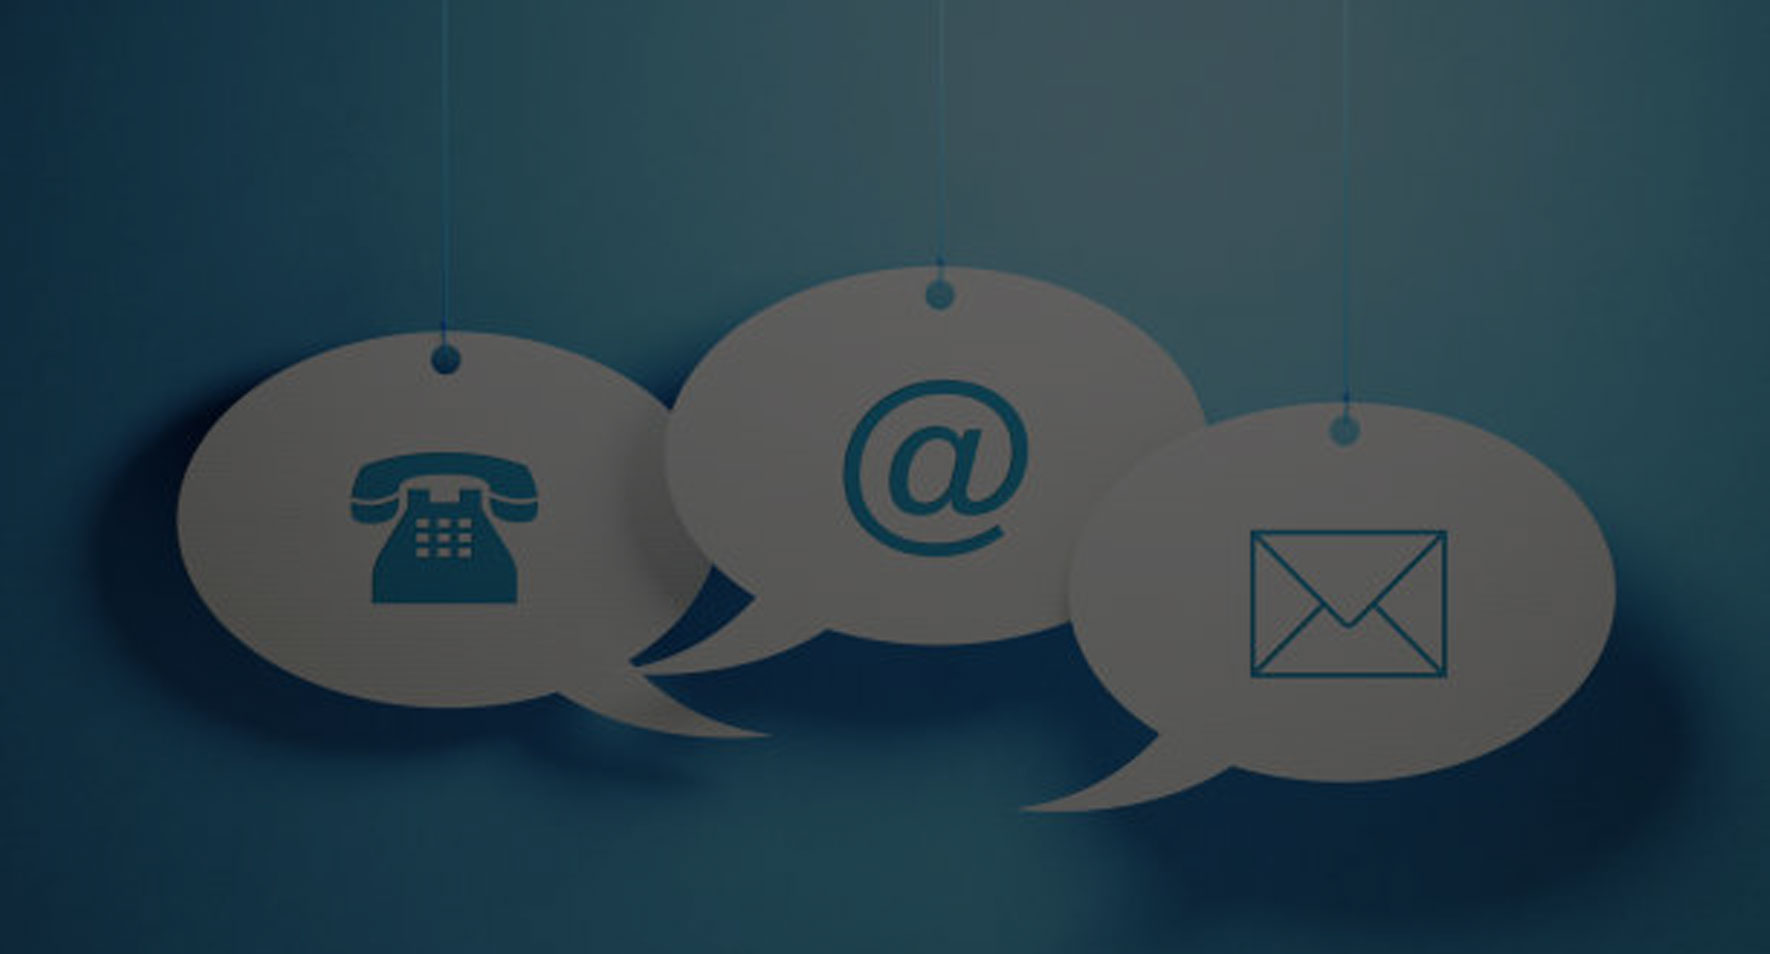
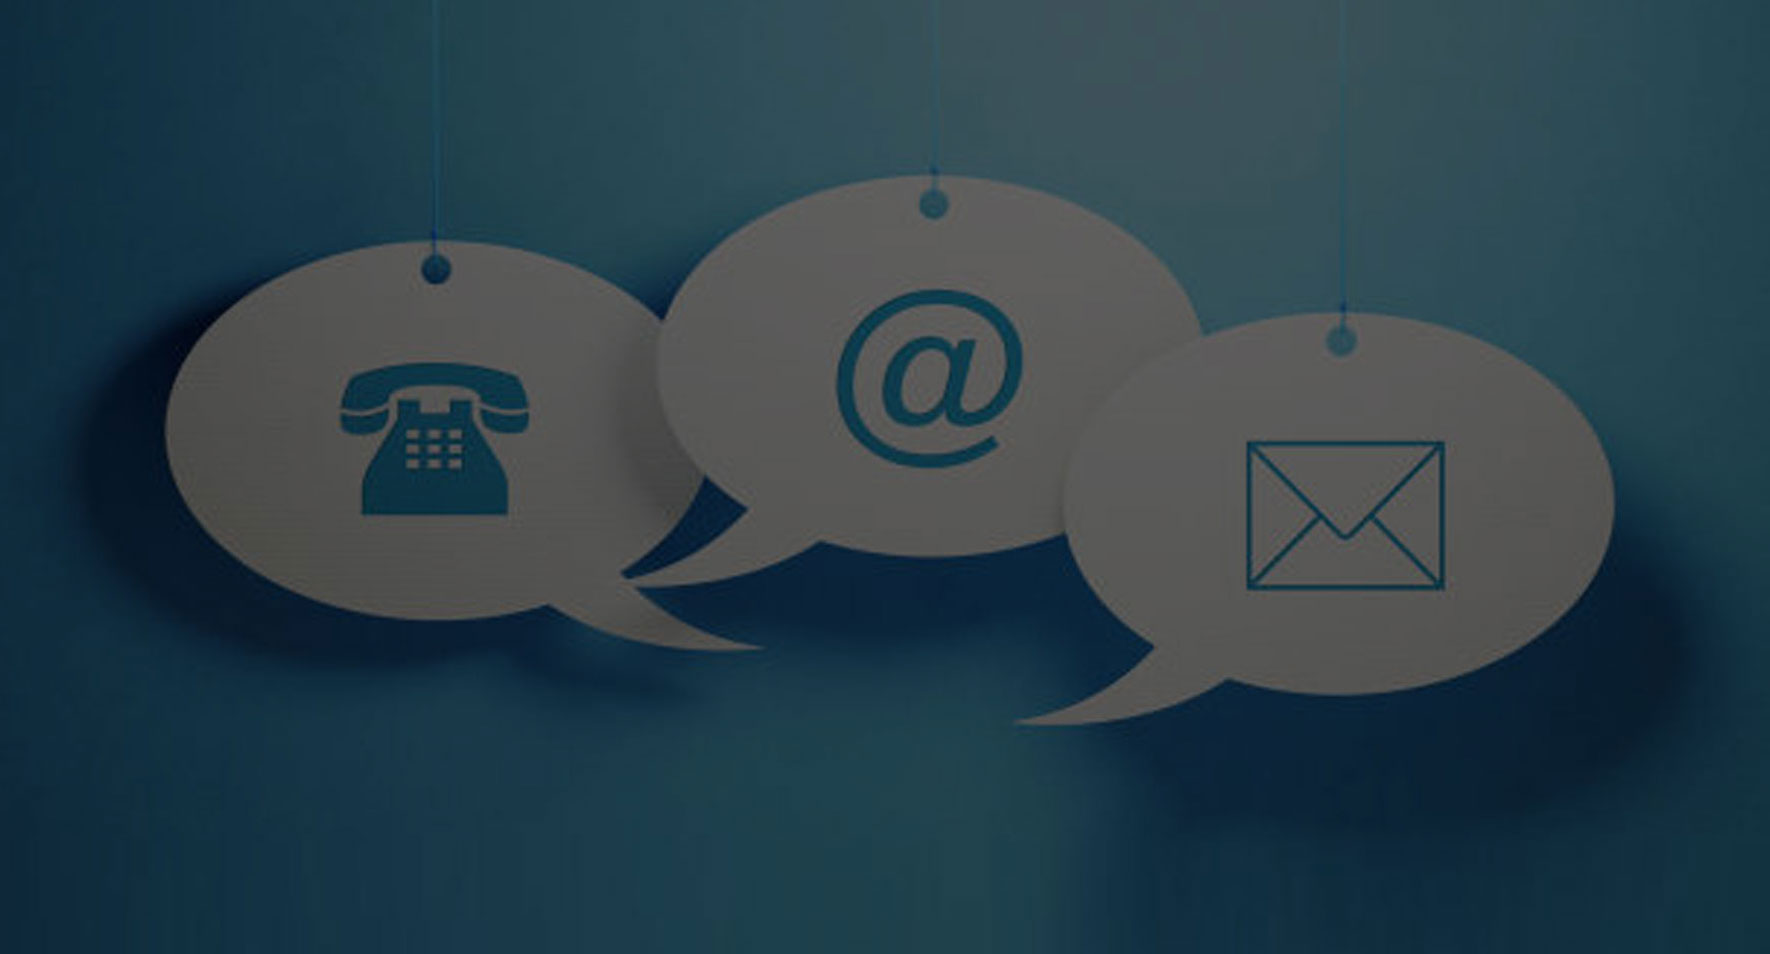
background image to changed

Changed region(s): [[0.0311, 0.1824, 0.9322, 0.8512]]

diff --git a/index.html b/index.html
@@ -51,7 +51,7 @@
 
                 <!-- MENU LINKS -->
                 <div class="collapse navbar-collapse">
-                    <ul class="nav navbar-nav navbar-nav-first">
+                    <ul class="nav navbar-nav navbar-nav-first" style="background: #fff;">
                         <!--                         <li><a href="#top" class="smoothScroll">Home</a></li>-->
                         <li><a href="#about" class="smoothScroll">About</a></li>
                         <li><a href="#services" class="smoothScroll">Products</a></li>
@@ -188,7 +188,7 @@
                     <div class="col-md-4 col-sm-6">
                         <div class="team-thumb" style="padding: 20px;border: none;">
                             <div class="team-image">
-                                <img src="images/author-image3.jpg" id="myBtn2" class="img-responsive" alt=""/>
+                                <img src="images/author-image3.jpg" id="myBtn2" class="img-responsive cursor" alt=""/>
                                 <div id="myModal2" class="modal">
                                     <!-- Modal content -->
                                     <div class="modal-content">
@@ -249,7 +249,7 @@
         </section>
 
         <!-- CONTACT -->
-        <section id="contact" style="background: url(images/contact-background.jpg); background-size: cover;background-position: center;">
+        <section id="contact">
             <div class="container">
                 <div class="row">
 

diff --git a/css/style.css b/css/style.css
@@ -696,6 +696,10 @@ section {
 
 #contact {
     background: #b7b7b7;
+    background: url(../images/contact-background.jpg); 
+    background-repeat: no-repeat;
+    background-size: cover;
+    background-position: center;
 }
 
 #contact h2 {
